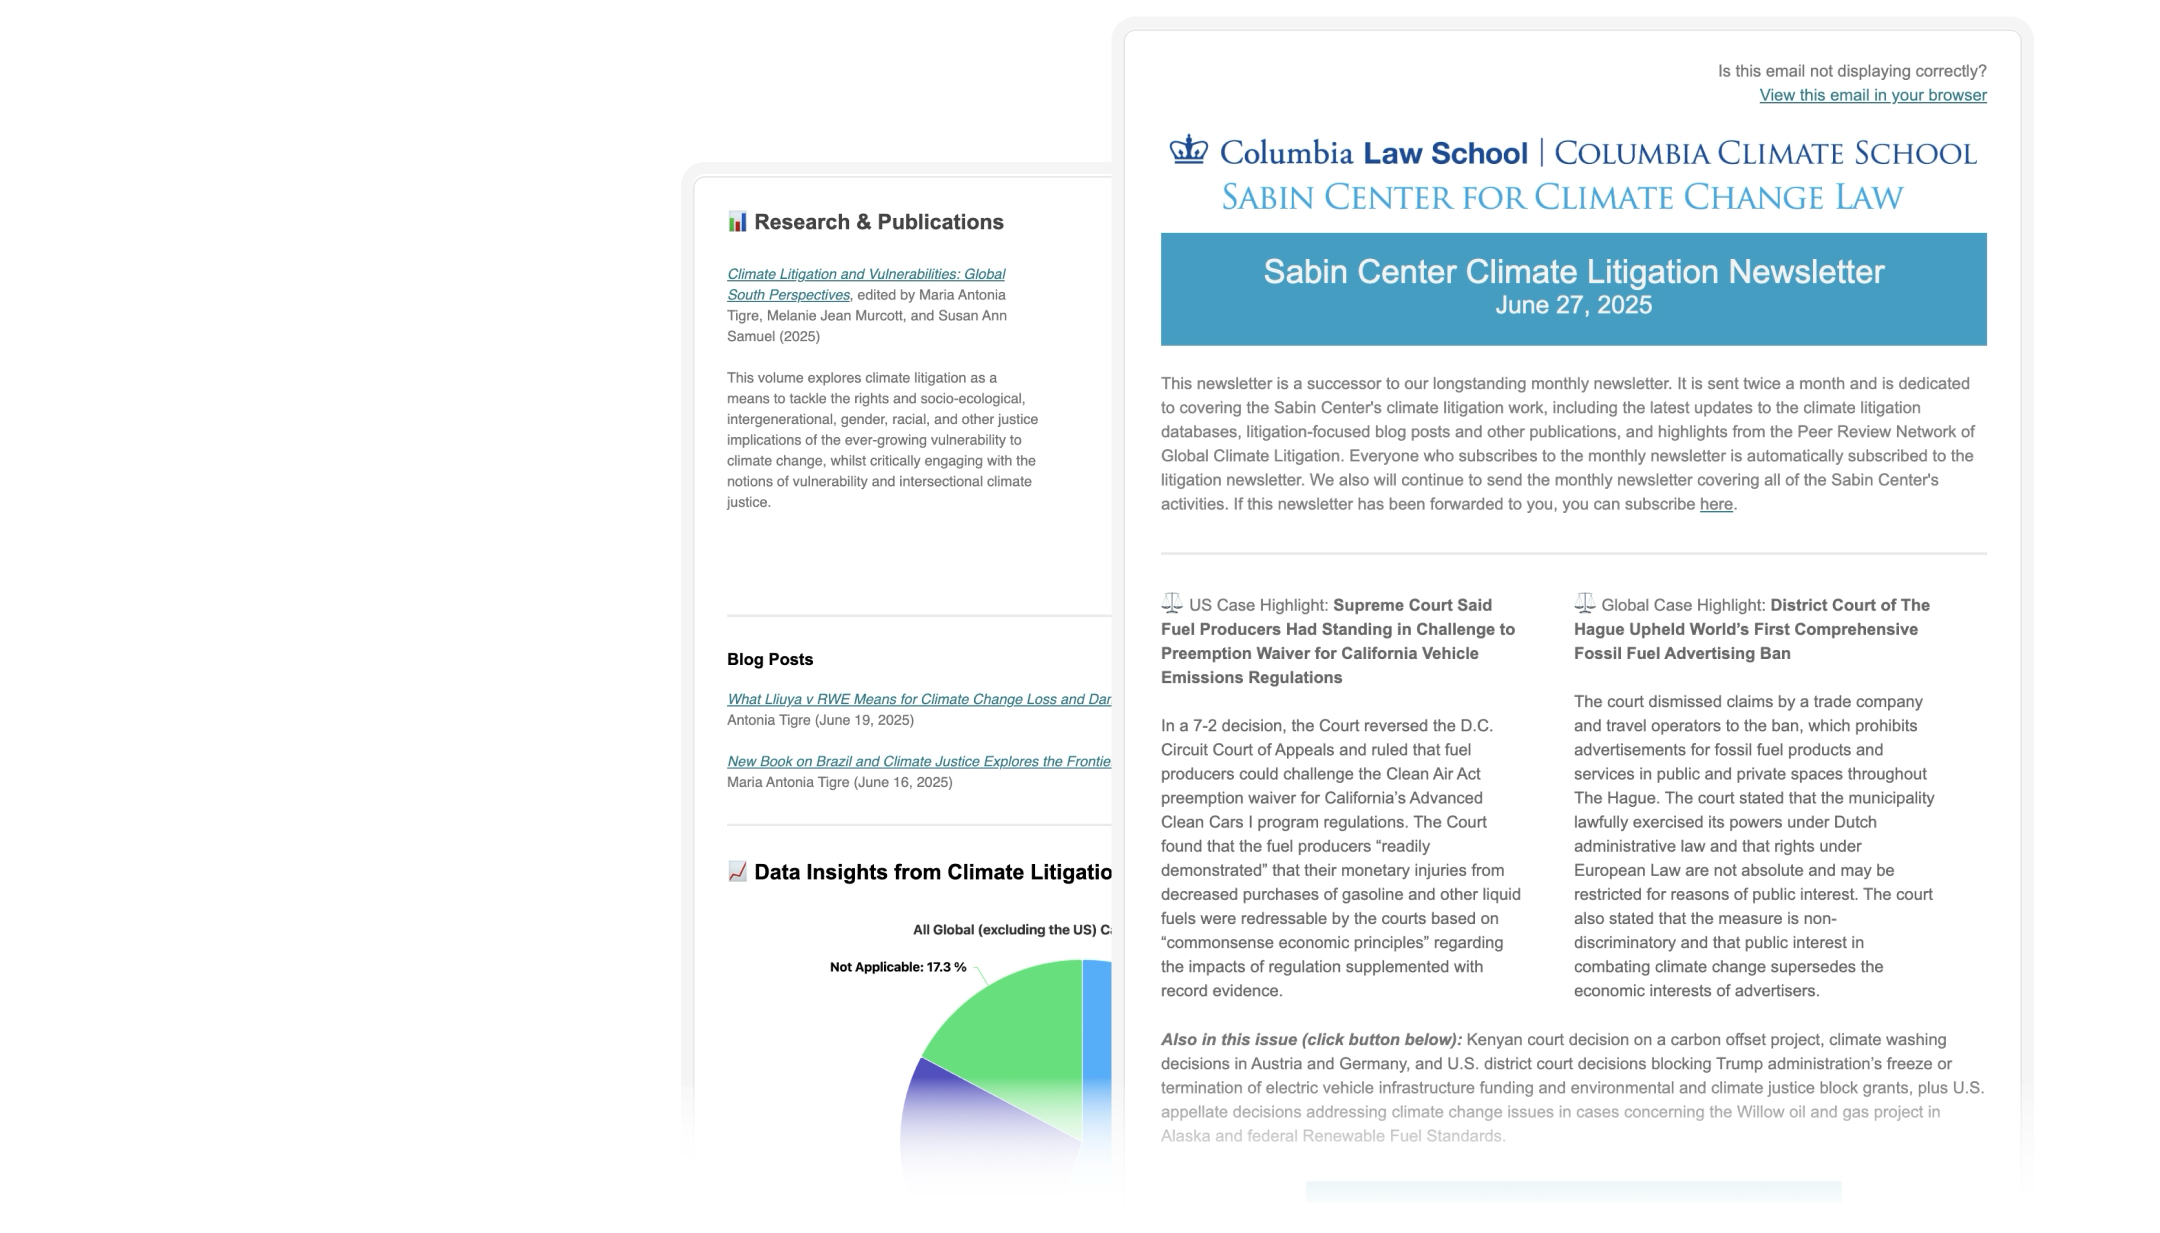
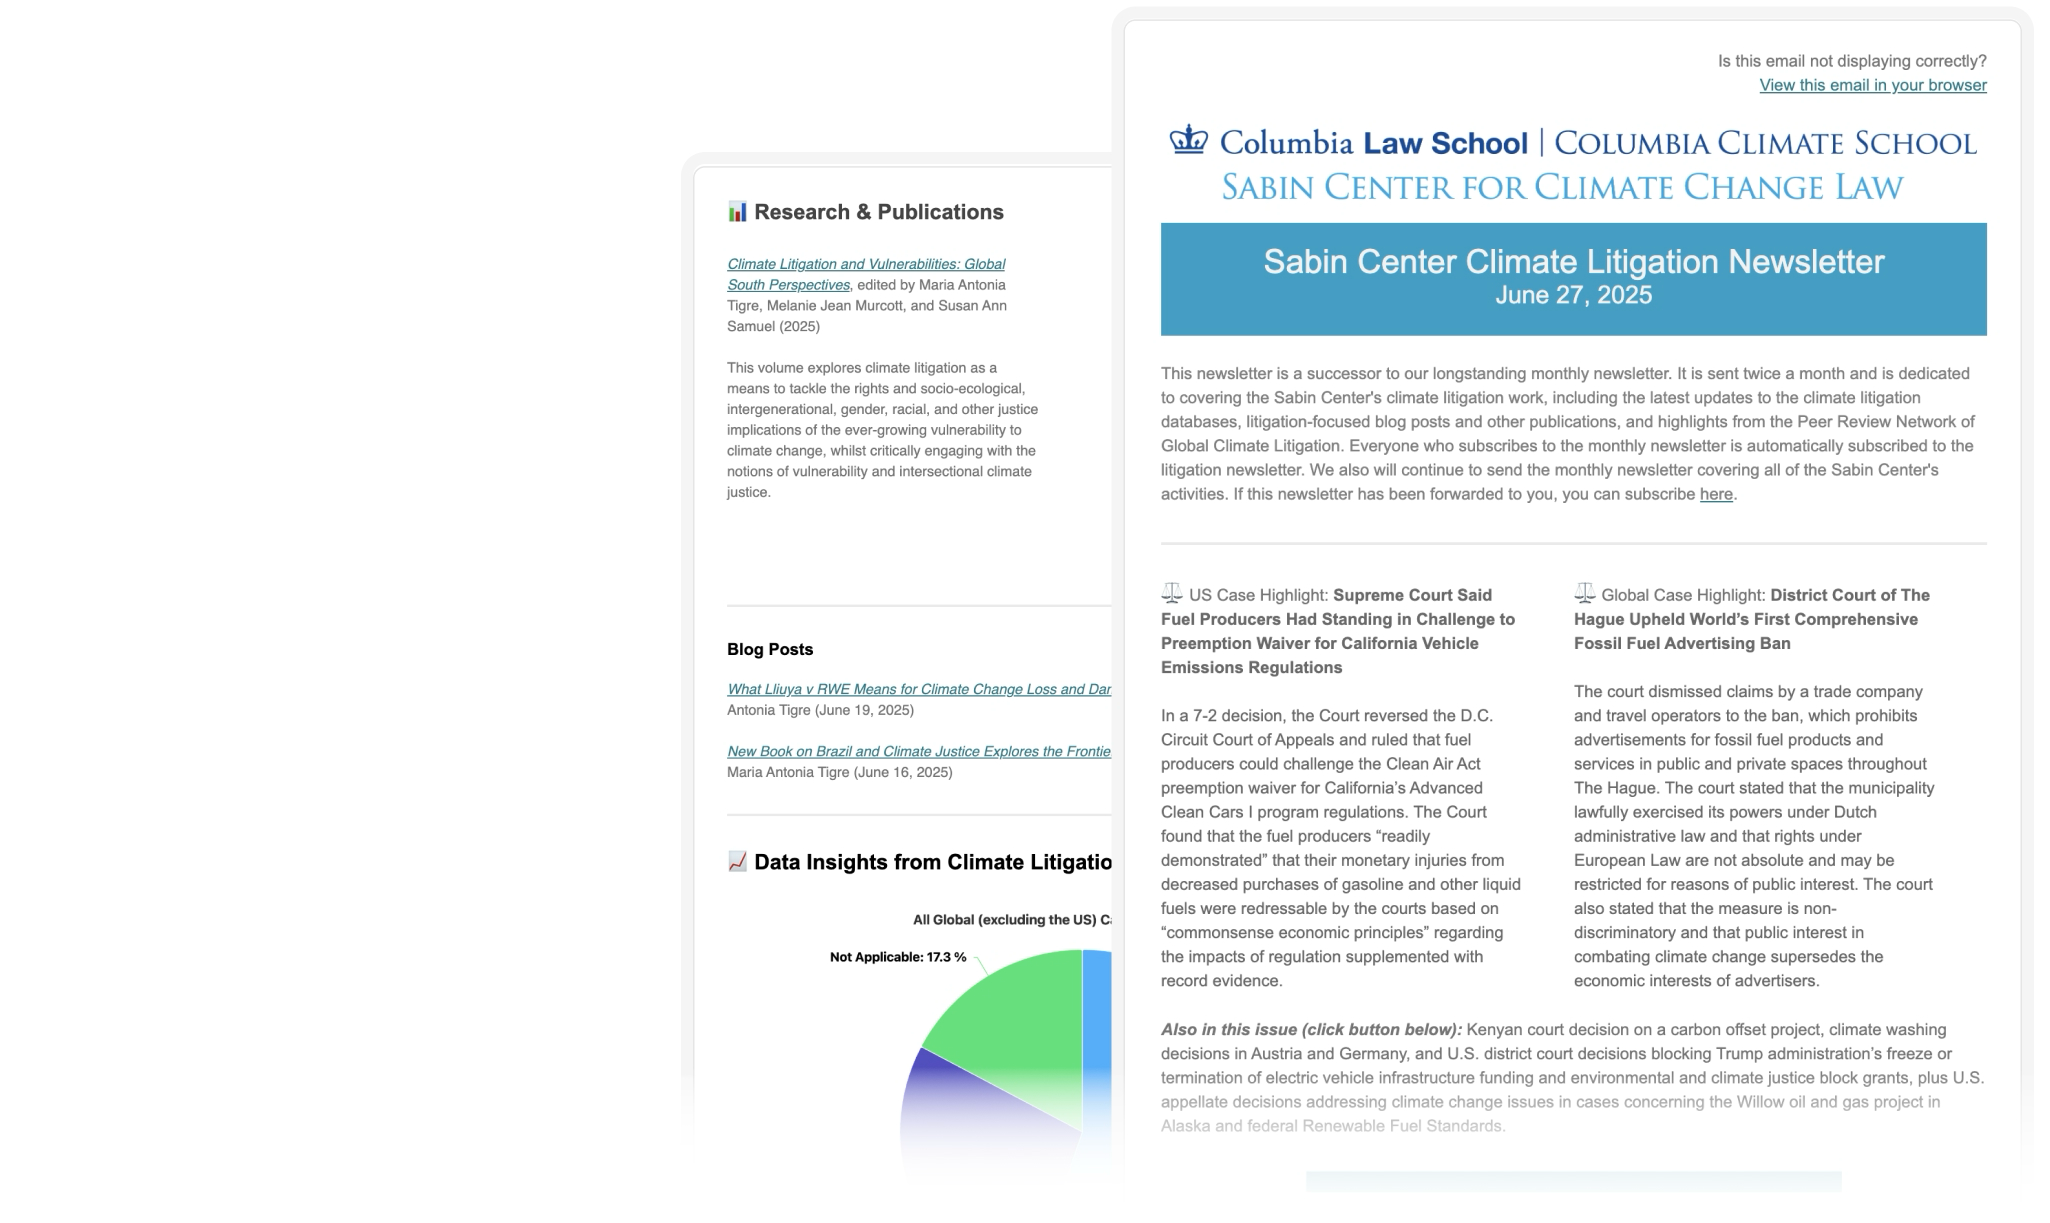
APP-1172 Add images for about & newsletter

Changed region(s): [[0.3434, 0.4661, 0.9678, 0.9321], [0.5307, 0.0311, 0.9678, 0.435], [0.3122, 0.1554, 0.4995, 0.435]]

diff --git a/themes/ccc/components/FeatureDiscover.tsx b/themes/ccc/components/FeatureDiscover.tsx
@@ -6,7 +6,7 @@ import { Feature } from "./Feature";
 export const FeatureDiscover = () => (
   <div className="w-full pt-12 pb-4 text-text-primary px-8">
     <div className="w-full grid grid-cols-1 lg:grid-cols-2 gap-8">
-      <Feature heading="About us" subheading="Learn about this project" image="" imageAlt="Climate Case Chart interface">
+      <Feature heading="About us" subheading="Learn about this project" image="Homepage-image.png" imageAlt="Climate Case Chart interface">
         <p className="text-lg leading-relaxed mb-6">
           The Sabin Center for Climate Change Law's Climate Litigation Database is the most comprehensive resource tracking climate change litigation
           worldwide. It contains more than 3,000 cases that address climate change law, policy, and science.
@@ -15,7 +15,7 @@ export const FeatureDiscover = () => (
           Read more →
         </LinkWithQuery>
       </Feature>
-      <Feature heading="Get the newsletter" subheading="Stay up to date" image="" imageAlt="Climate Case Chart newsletter">
+      <Feature heading="Get the newsletter" subheading="Stay up to date" image="Newsletter-image.png" imageAlt="Climate Case Chart newsletter">
         <p className="text-lg leading-relaxed mb-6">
           Subscribe to the Sabin Center Climate Litigation Newsletter for twice-monthly updates. Each issue includes the latest case updates, event
           announcements, and publication highlights.
